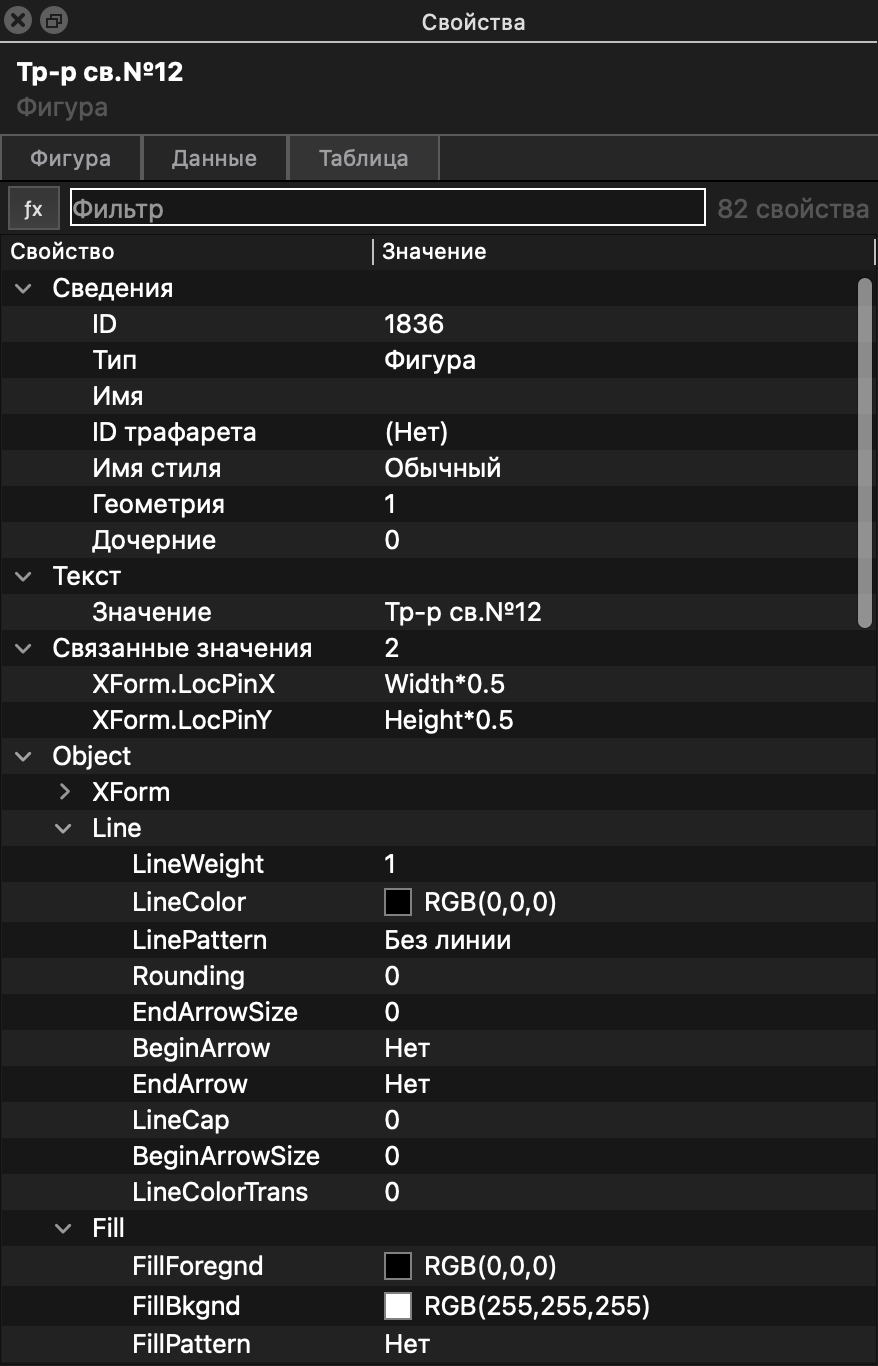
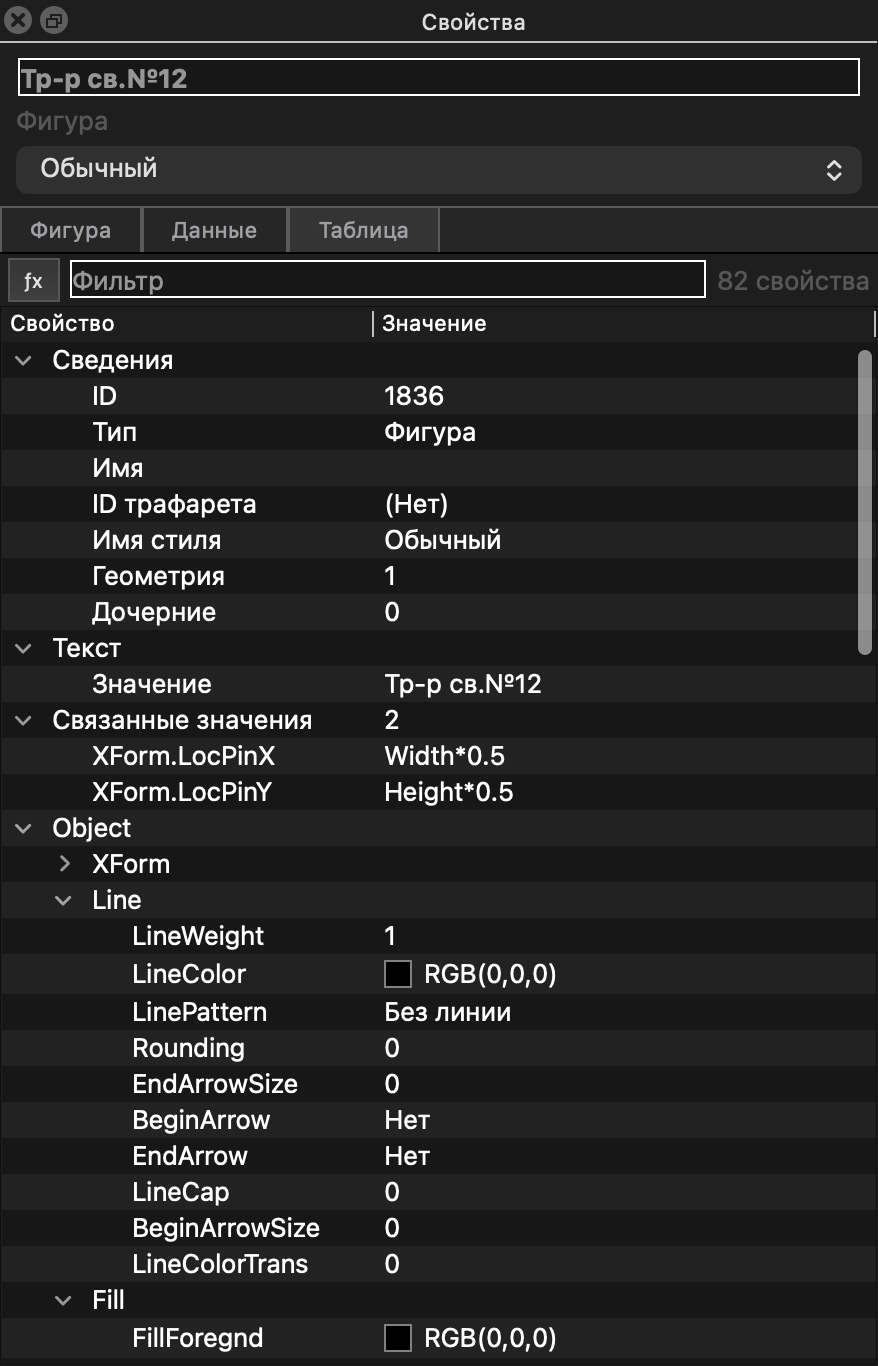
designer: the Inspector's Shape tab, phase 2 (1104)
designer/docs/inspector.md, phase 2. The Shape tab shows what a shape is
drawn with, master and style values included, and edits it:

- editor/inspector/cell_field.h: ReadCell (the value as drawn via
  ResolveCell; origin shape / master / inherited; formula; mixed across
  the selection, colours compared as colours and numbers as numbers) and
  CellForm, whose rows draw the four states (a dot when the shape sets the
  value, a dimmed label when inherited, a read-only field with an fx button
  when a formula drives it, "—" when the shapes differ) and offer Reset to
  Master / Style, Remove Formula, Edit Formula and Show in Sheet. Every
  edit applies to the whole selection as one undo step named after the
  section. Numbers follow the user's locale.
- modules/inspector/shape_sections.cpp: Fill (Colour follows the pattern:
  the background for solid, the foreground for a hatch, with Second colour),
  Line, Text (formatting; the font is chosen by name and stored by id) and
  Behaviour (layers and double-click with Edit..., non-printing, lock
  toggles, a group's select and display modes).
- InspectorSectionDesc::visible: a section that does not apply is hidden
  with its heading (Text only with text, the rest only with a selection).
- The header's name edits one shape's Name (new RenameShapeCommand); its
  style box sets the selection's style (StyleChangeCommand, moved from the
  Format bar into commands/ so both use it).
[…]

diff --git a/dev/designer/properties.md b/dev/designer/properties.md
@@ -25,17 +25,53 @@ permalink: /dev/designer/properties/
 и что это — фигура, группа, экземпляр трафарета; если выделено несколько
 фигур — их число, если ничего — страницу. Если фигура лежит на
 заблокированном слое, это сказано там же: поэтому значения и не меняются.
+Имя одной выделенной фигуры можно исправить прямо там, а в списке под ним
+выбрать стиль выделенных фигур.
 
 Ниже три вкладки:
 
 | Вкладка | Что на ней |
 |---|---|
-| *Фигура* | [положение и размер](#transform) |
+| *Фигура* | [положение и размер](#transform), [заливка, линия, текст и поведение](#shape-tab) |
 | *Данные* | [пользовательские свойства](#custom-properties) |
 | *Таблица* | все ячейки фигуры — описана ниже |
 
 Разделы на вкладке сворачиваются щелчком по заголовку. Открывается та
 вкладка, с которой работали в последний раз.
+
+### Вкладка «Фигура» {#shape-tab}
+
+Под разделом [«Положение и размер»](#transform) идут разделы, которые
+показывают, чем фигура нарисована на самом деле — в том числе значения,
+которые она берет из трафарета или стиля:
+
+| Раздел | Поля |
+|---|---|
+| Заливка | Узор, Цвет, для штриховки — Второй цвет, Прозрачность |
+| Линия | Толщина, Цвет, Узор, Начальная и Конечная стрелка, Скругление, Прозрачность |
+| Текст | Шрифт, Размер, начертание (полужирный, курсив, подчеркнутый), Цвет, выравнивание по горизонтали и по вертикали |
+| Поведение | Слои (кнопка *Изменить...* открывает выбор слоев), Не выводить на печать, Двойной щелчок (*Изменить...* открывает диалог «Поведение»), Запреты — кнопки, запрещающие менять ширину, высоту, двигать по X и по Y, поворачивать, удалять, править текст и оформление; для группы — Выделение и Отображение |
+
+Раздел «Текст» есть, только когда у фигуры есть текст; сам текст правится
+на схеме двойным щелчком. Разделы видны, когда выделена хотя бы одна
+фигура.
+
+Каждое поле показывает, откуда значение:
+
+- **Точка перед названием** — значение задано у самой фигуры.
+- **Бледное название** — значение взято из трафарета или стиля. Если его
+  изменить, фигура получит свое значение.
+- **Кнопка `ƒx`** — значение вычисляет формула. Здесь такое поле не
+  правится, чтобы привязку нельзя было стереть случайно; кнопка открывает
+  формулу в строке формул.
+- **Прочерк `—`** — у выделенных фигур значения разные. Новое значение
+  получат все выделенные фигуры.
+
+Каждое изменение — один шаг отмены, названный по разделу, например
+*Отменить: Линия*. Контекстное меню поля: *Вернуть значение трафарета*
+(или *стиля*) — убрать собственное значение фигуры; *Убрать формулу* —
+заменить формулу ее текущим значением; *Изменить формулу*; *Показать в
+таблице*.
 
 ### Таблица {#sheet}
 

diff --git a/en/dev/designer/properties.md b/en/dev/designer/properties.md
@@ -25,18 +25,52 @@ At the top the panel names the selection: the shape's name (or its text, or
 its master) and what it is — a shape, a group, an instance of a master; with
 several shapes selected, how many; with nothing selected, the page. A shape
 on a locked layer says so there too, which is why its values will not
-change.
+change. The name of a single selected shape can be corrected right there,
+and the list below it sets the style of the selected shapes.
 
 Below are three tabs:
 
 | Tab | What it holds |
 |---|---|
-| *Shape* | [position and size](#transform) |
+| *Shape* | [position and size](#transform), [fill, line, text and behaviour](#shape-tab) |
 | *Data* | [custom properties](#custom-properties) |
 | *Sheet* | every cell of the shape — described below |
 
 A section on a tab folds when you click its heading. The tab you used last
 opens next time.
+
+### The Shape tab {#shape-tab}
+
+Below [Position and size](#transform) come sections that show what the
+shape is actually drawn with — including the values it takes from its master
+or style:
+
+| Section | Fields |
+|---|---|
+| Fill | Pattern, Colour, for a hatch a Second colour, Transparency |
+| Line | Weight, Colour, Pattern, Begin and End arrow, Rounding, Transparency |
+| Text | Font, Size, style (bold, italic, underline), Colour, horizontal and vertical alignment |
+| Behaviour | Layers (*Edit...* opens the layer choice), Non-printing, Double-click (*Edit...* opens the Behavior dialog), Locks — buttons that lock width, height, horizontal and vertical move, rotation, deletion, text editing and formatting; for a group, Select and Display |
+
+The Text section appears only when the shape has text; the text itself is
+edited on the schematic with a double-click. The sections show when at least
+one shape is selected.
+
+Every field shows where its value comes from:
+
+- **A dot before the name** — the shape sets the value itself.
+- **A dimmed name** — the value comes from the master or the style.
+  Changing it gives the shape a value of its own.
+- **An `ƒx` button** — a formula computes the value. The field cannot be
+  edited here, so a binding cannot be erased by accident; the button opens
+  the formula in the Formula bar.
+- **A dash `—`** — the selected shapes have different values. A new value
+  goes to all of them.
+
+Every change is one undo step named after its section, e.g. *Undo Line*. A
+field's context menu: *Reset to Master* (or *to Style*) — remove the shape's
+own value; *Remove Formula* — replace the formula with its current value;
+*Edit Formula*; *Show in Sheet*.
 
 ### Sheet {#sheet}
 
